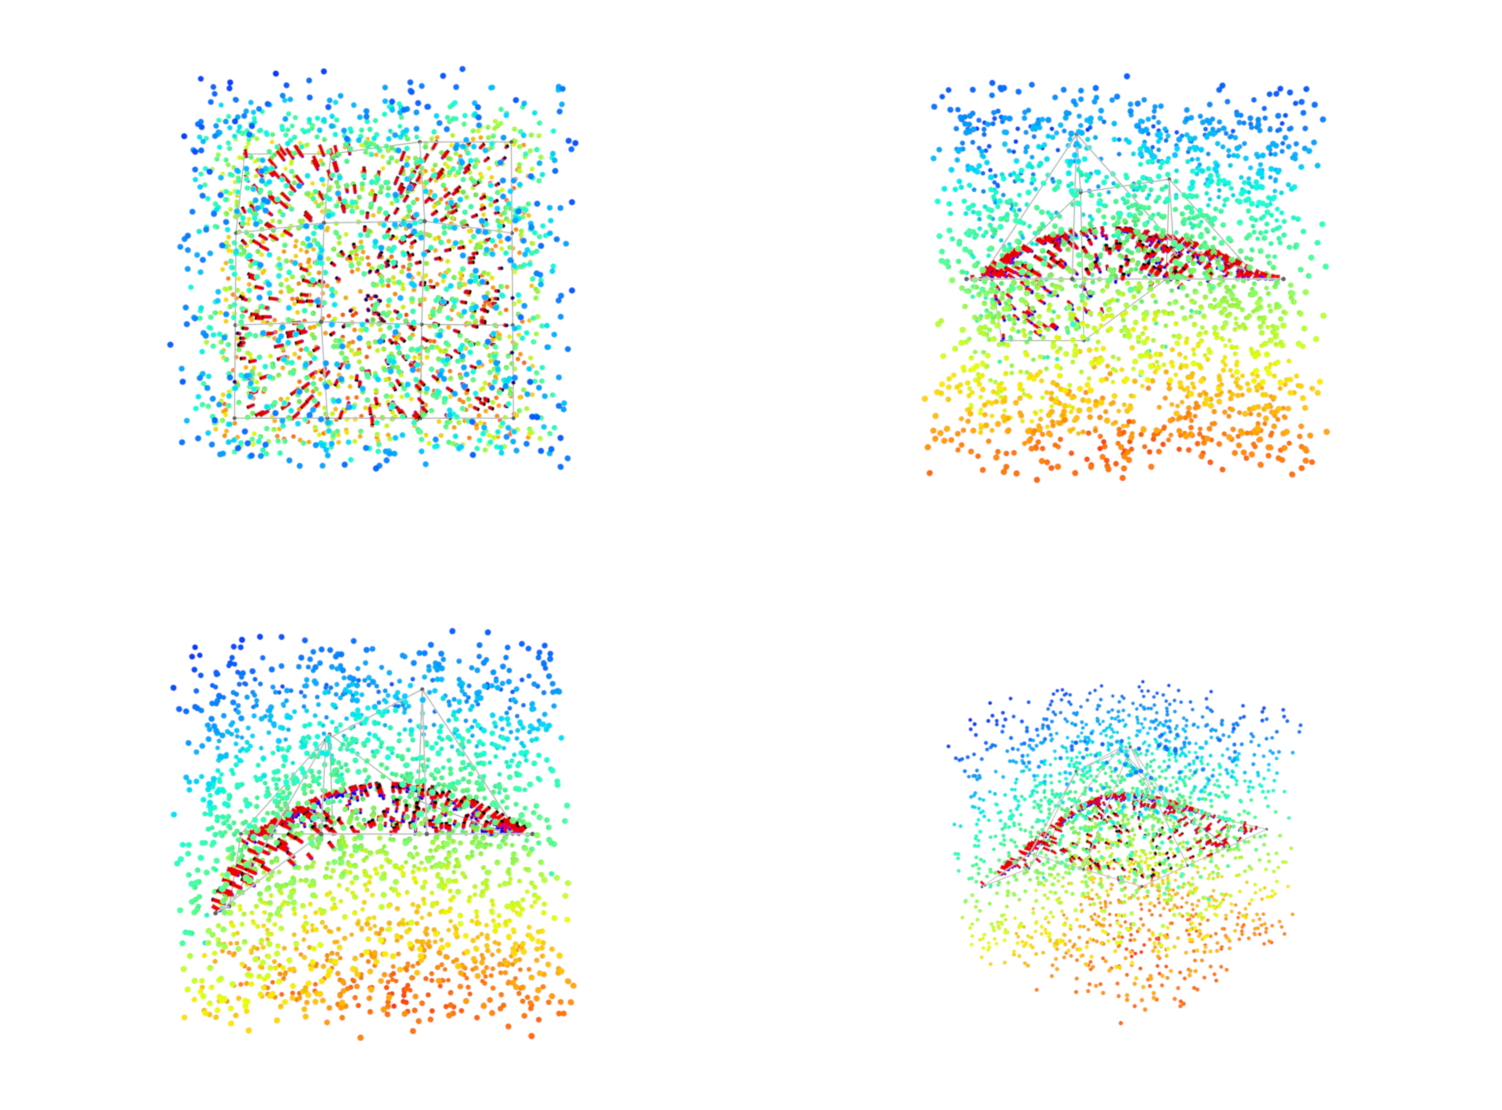
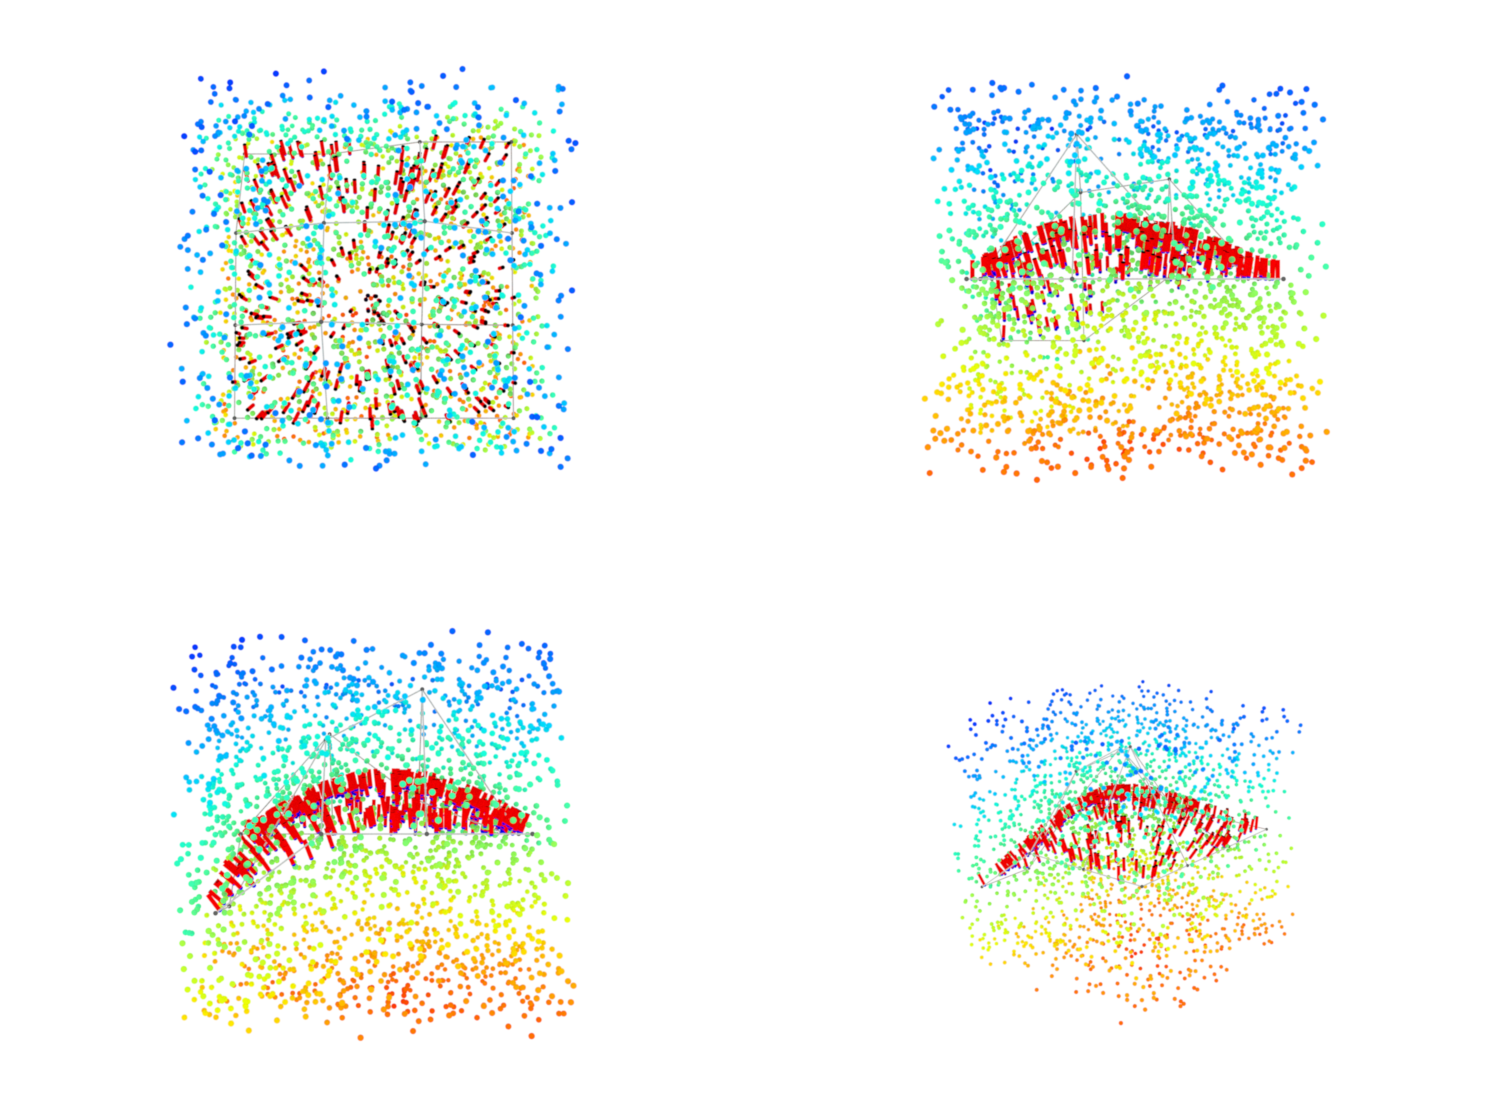
Fix normalization of normals

diff --git a/visualize_bezier.py b/visualize_bezier.py
@@ -82,7 +82,7 @@ class BezierSurface:
         derivatives_u = self._derivatives_u(uv_coordinates)
         derivatives_v = self._derivatives_v(uv_coordinates)
         normals = np.cross(derivatives_v, derivatives_u)
-        normals /= np.linalg.norm(normals, ord=2, axis=1, keepdims=True)
+        normals /= np.linalg.norm(normals, ord=2, axis=-1, keepdims=True)
         return normals
 
     def get_points_on_surface(self, uv_coordinates: np.ndarray) -> np.ndarray:
@@ -292,7 +292,8 @@ def generate_point_view(
                 tuple(point), 0.04, distance_to_color_tuple(distance)
             )
 
-        normals = normals + sampled_points
+        # limiting length of normals for the proper visualization
+        normals = normals * 0.25 + sampled_points
         for normal, point in zip(
             normals[surface_index], sampled_points[surface_index]
         ):
